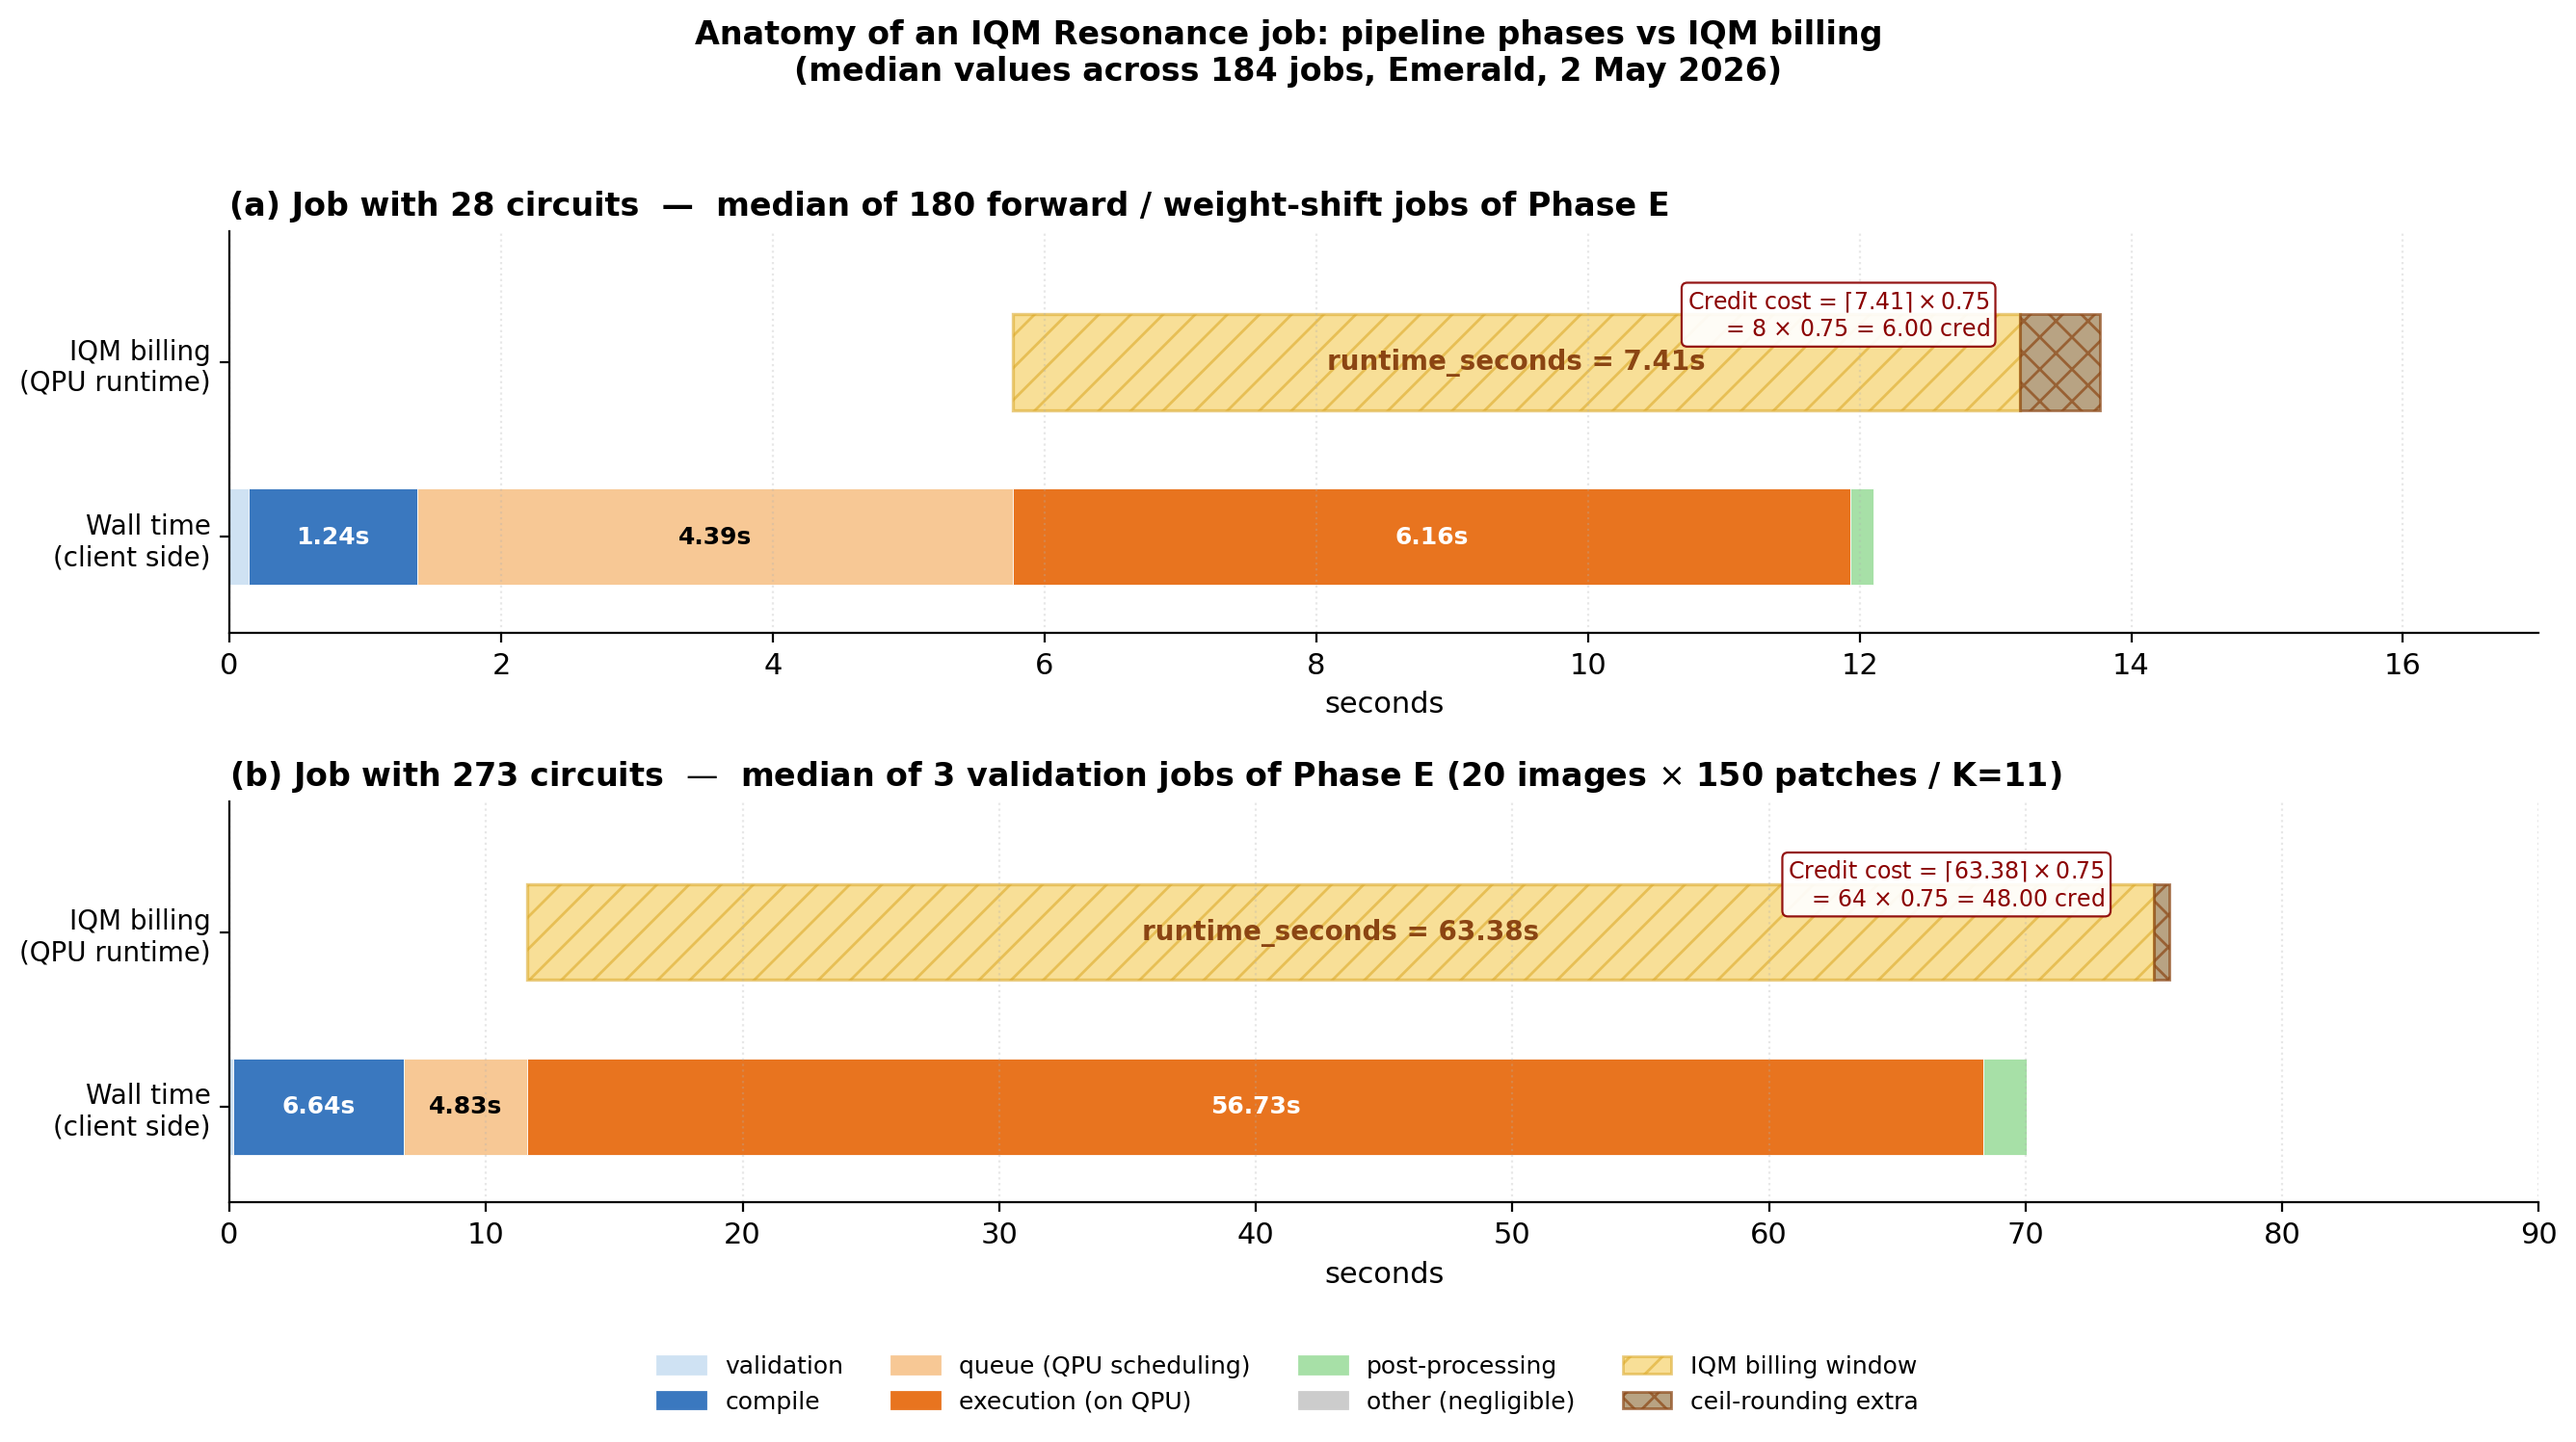
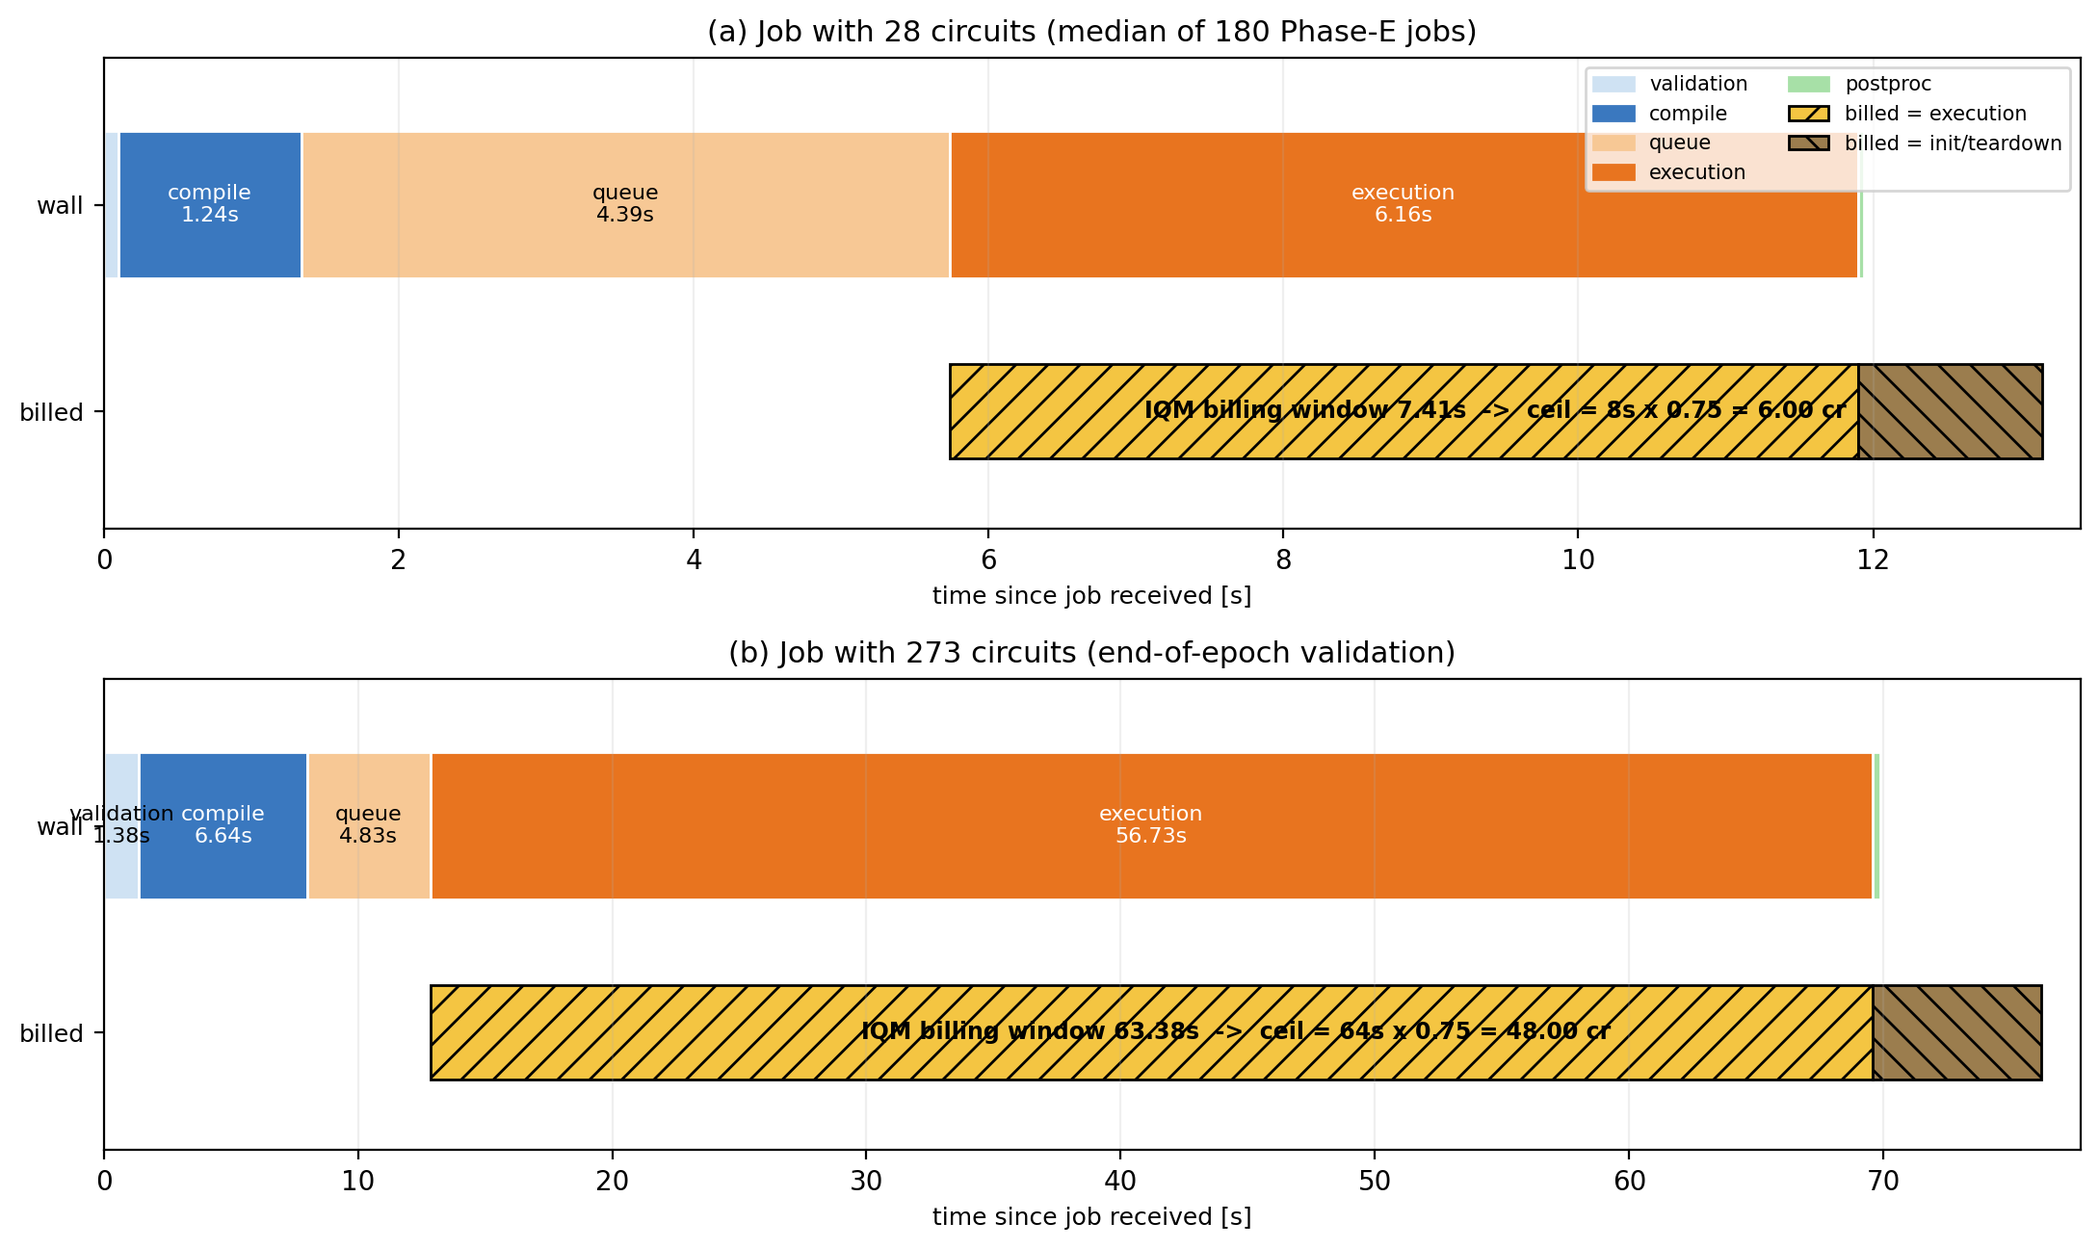
Ch.3: cost-model grounded on real IQM data; train/val split correction
Cost model (Sec. cost_model), now consistent with the qh_algorithms SSoT
(real IQM Resonance Phase E job records):
- single per-job time model Eq.(job_time_model) = (1.49+/-0.07)s + (0.225+/-0.001)s/circ * N,
  R^2=0.992 on the full 195-job set; removed the duplicate full-fit equation and
  the non-reproducible median-aggregated reconciliation.
- billing window = execution + per-job init/teardown overhead (was mislabelled
  'execute = billed'); figure caption and panel (b) corrected accordingly.
- job count unified to 195 (was 184) in the anatomy/billing discussion; queue
  overhead 4.45+/-0.59 s; billing rule verified 195/195.
- Phase D reframed as the small-N exploratory timing-estimation batch (18 credits).
- both cost-model figures regenerated from the real job data (real scatter,
  correct billed window).

Train/validation split (Sec. results-stats): corrected the internally
inconsistent '80/20 -> N_train=160' to the actual pipeline, 100 images/class
drawn from disjoint train/val directories -> N_train=N_val=200, fixed across
all R=10 seeds; credit-estimate scale updated 160 -> 200.
Build: 0 errors, 0 undefined.

diff --git a/chapters/quantum_algorithms.tex b/chapters/quantum_algorithms.tex
@@ -919,7 +919,7 @@ Emerald quantum processor. The split between a simulator-based
 pre-training phase and an on-device fine-tuning phase is forced by the
 economics of cloud-accessed superconducting QPUs. A full $R=10$ multi-seed,
 ten-epoch training campaign on Emerald at the production
-$N_{\mathrm{train}}=160$ scale of the simulator would consume on the
+$N_{\mathrm{train}}=200$ scale of the simulator would consume on the
 order of $\sim 10^{5}$ credits (Sec.~\ref{subsec:cost_model}), against
 the $2{,}000$-credit budget allocated to this campaign; the production
 runs on Emerald therefore freeze the classical trunk at its
@@ -1050,9 +1050,10 @@ an equivalent classical convolution), and the hybrid Q-CNN itself
 (Level~3, $\sim 4.64\times 10^{5}$ trainable parameters) — is trained
 from scratch over $R=10$ independent runs that differ only in the
 random seed used to initialise the weights and to shuffle the
-mini-batches; the train/validation split is held fixed across runs at
-$80/20$ on a 100-image-per-class subset of EuroSAT (Forest vs.\
-AnnualCrop), yielding $N_{\mathrm{train}}=160$ and $N_{\mathrm{val}}=200$
+mini-batches; the train/validation partition is held fixed across runs: the EuroSAT
+classes Forest and AnnualCrop are split $80/20$ into disjoint training and
+validation directories, from each of which a fixed subset of $100$ images
+per class is drawn, giving $N_{\mathrm{train}}=200$ and $N_{\mathrm{val}}=200$
 items shared across all seeds. The purely quantum reference of
 Sebastianelli et al.~\cite{Sebastianelli2021} is discussed qualitatively
 in Sec.~\ref{sec:baselines} but is not included in the across-seed
@@ -1686,7 +1687,7 @@ A submission to Emerald goes through a sequence of platform-side phases that are
 
 \begin{itemize}
 \item \emph{Validation, compile, and post-processing} (blue/light-green segments) run on the IQM platform side and are not billed. Their median wall durations are below 1.5~s for the 28-circuit job, and grow modestly with the circuit count (about 6.6~s for the 273-circuit job, dominated by per-circuit pulse-schedule generation).
-\item \emph{Queue (QPU scheduling)} is a near-constant overhead between the end of compilation and the start of execution: $4.46\pm 0.58$~s across the 184 jobs of the campaign, essentially independent of circuit count. This is the QPU-scheduler latency before the device is allocated to the job.
+\item \emph{Queue (QPU scheduling)} is a near-constant overhead between the end of compilation and the start of execution: $4.45\pm 0.59$~s across the 195 jobs of the campaign, essentially independent of circuit count. This is the QPU-scheduler latency before the device is allocated to the job.
 \item \emph{Execution on QPU} (orange) is the dominant component for any non-trivial circuit count. Its median is 6.16~s for the 28-circuit job and 56.73~s for the 273-circuit job.
 \item \emph{Billing window} (yellow hatched) starts at \texttt{execution\_start} and lasts \texttt{runtime\_seconds} (a field in the job record), which exceeds the wall-clock execution duration by a small additive overhead ($\sim 1.2$~s) attributable to QPU initialization and teardown that the platform attributes to the user but does not expose as a separate timestamp.
 \end{itemize}
@@ -1694,17 +1695,17 @@ A submission to Emerald goes through a sequence of platform-side phases that are
 \begin{figure}[h]
 \centering
 \includegraphics[width=\linewidth]{chapters/qa_figures/iqm_job_anatomy.png}
-\caption{Anatomy of an IQM Resonance job: pipeline phase decomposition (lower bars) and IQM billing window (upper bars), shown as median values across 184 jobs of the Phase~E campaign. (a)~28-circuit forward / weight-shift job; (b)~273-circuit validation job. Only the orange ``execution'' segment is billed; the queue scheduling latency ($\sim 4.4$~s, light orange) and the compile/validation overhead are not. The yellow hatched bar shows the IQM billing window, which exceeds the wall-clock execution by $\sim 1.2$~s of QPU initialization/teardown. The credit cost is computed by $\lceil\,\texttt{runtime\_seconds}\,\rceil \times 0.75$, where the brown segment marks the rounding-up to the next integer second.}
+\caption{Anatomy of an IQM Resonance job: pipeline phase decomposition (lower bars) and IQM billing window (upper bars), shown as median values across the 195 jobs of the Phase~E campaign. (a)~28-circuit forward / weight-shift job; (b)~273-circuit validation job. Only the orange ``execution'' segment is billed; the queue scheduling latency ($\sim 4.4$~s, light orange) and the compile/validation overhead are not. The yellow hatched bar shows the IQM billing window, which exceeds the wall-clock execution by $\sim 1.2$~s of QPU initialization/teardown. The credit cost is computed by $\lceil\,\texttt{runtime\_seconds}\,\rceil \times 0.75$, where the brown segment marks the rounding-up to the next integer second.}
 \label{fig:iqm_job_anatomy}
 \end{figure}
 
 \paragraph{Billing rule.}
-The IQM billing rule for the PAYG (pay-as-you-go) execution mode reduces, on the 184 jobs of our campaign, to the exact integer formula
+The IQM billing rule for the PAYG (pay-as-you-go) execution mode reduces, on the 195 jobs of our campaign, to the exact integer formula
 \begin{equation}
 \text{credit\_cost} \;=\; \lceil\,\texttt{runtime\_seconds}\,\rceil \;\times\; 0.75 \quad\text{(IQM credits)},
 \label{eq:billing_rule}
 \end{equation}
-that we verified to hold to 6 significant digits on 184 of 184 jobs. The $0.75$ figure matches the per-second rate published in the job record (\texttt{payg\_price\_per\_second}). The ceiling rounding induces an average overhead of approximately $8\%$ with respect to the continuous-rate cost: on the realised total QPU runtime of $1581$~s of the Phase~E campaign, the continuous-rate cost would be $1581 \times 0.75 = 1185.75$ credits, against an actually billed $1284$ credits, for a gap of $\approx 98$ credits (Sec.~\ref{subsec:finetune_results}). The relative gap is largest on short jobs (where the ceiling is a substantial fraction of the runtime) and decays to a fraction of a percent for long jobs (Tab.~\ref{tab:billing_rule_check}).
+that we verified to hold to 6 significant digits on 195 of 195 jobs. The $0.75$ figure matches the per-second rate published in the job record (\texttt{payg\_price\_per\_second}). The ceiling rounding induces an average overhead of approximately $8\%$ with respect to the continuous-rate cost: on the realised total QPU runtime of $1581$~s of the Phase~E campaign, the continuous-rate cost would be $1581 \times 0.75 = 1185.75$ credits, against an actually billed $1284$ credits, for a gap of $\approx 98$ credits (Sec.~\ref{subsec:finetune_results}). The relative gap is largest on short jobs (where the ceiling is a substantial fraction of the runtime) and decays to a fraction of a percent for long jobs (Tab.~\ref{tab:billing_rule_check}).
 
 \begin{table}[h]
 \centering
@@ -1722,13 +1723,13 @@ $N$ circuits & jobs & $\overline{\text{cred}}$ & $\overline{\text{runtime}_s}$ &
 \end{table}
 
 \paragraph{Per-circuit time amortization.}
-The QPU runtime per job (\texttt{runtime\_seconds}) is highly linear in the number of circuits, with negligible scatter at fixed $N$. A linear fit on all 184 jobs gives
+The QPU runtime per job (\texttt{runtime\_seconds}) is highly linear in the number of circuits, with negligible scatter at fixed $N$. A per-job linear fit on the full set of $195$ Phase~E jobs (Fig.~\ref{fig:cost_model_validation}) gives
 \begin{equation}
-\texttt{runtime\_seconds}(N) \;=\; (1.44 \pm 0.08)\;\text{s} \;+\; (0.226 \pm 0.001)\;\text{s} \cdot N,
-\qquad R^2 = 0.993 .
+\texttt{runtime\_seconds}(N) \;=\; (1.49 \pm 0.07)\;\text{s} \;+\; (0.225 \pm 0.001)\;\text{s/circ} \cdot N,
+\qquad R^2 = 0.992 .
 \label{eq:job_time_model}
 \end{equation}
-The intercept $1.44$~s is interpretable as the per-job QPU initialization+teardown overhead, while the slope $0.226$~s/circuit is the per-circuit shot loop at $N_s=500$ shots. Combining Eq.~\ref{eq:job_time_model} with the billing rule of Eq.~\ref{eq:billing_rule} provides a closed-form a-priori cost model that is exact up to the ceiling rounding.
+The intercept $1.49$~s is interpretable as the per-job QPU initialization+teardown overhead, while the slope $0.225$~s/circuit is the per-circuit shot loop at $N_s=500$ shots. Combining Eq.~\ref{eq:job_time_model} with the billing rule of Eq.~\ref{eq:billing_rule} provides a closed-form a-priori cost model that is exact up to the ceiling rounding.
 
 \paragraph{Wall-time vs.\ billed-time discrepancy.}
 The wall-clock time observed at the Python client is consistently larger than \texttt{runtime\_seconds} (Fig.~\ref{fig:iqm_job_anatomy}). For the 28-circuit job, the wall median is 12.10~s while the billing window is 7.41~s; for the 273-circuit job, the corresponding values are 70.04~s and 63.38~s. The gap is attributable to compilation, queue scheduling, and post-processing, which are not billed but contribute to the throughput observed by the user. The empirical wall-time-to-billing ratio is
@@ -1744,21 +1745,12 @@ which is what an in-flight cost model based on Python-side wall measurements wou
 \paragraph{Validation against the in-flight model.}
 \label{par:cost_model_validation}
 Figure~\ref{fig:cost_model_validation} summarizes the validation of the
-cost-model of Sec.~\ref{sec:batch-time-model} against the 183 production jobs
-of the Phase~E campaign (180 forward / weight-shift jobs at $N=28$ plus 3
-end-of-epoch validation jobs at $N=273$). A linear least-squares fit of the
-QPU runtime against the bound-circuit count $N$ yields, on the
-\emph{full} set of 195 jobs (183 production + 12 Phase~D minicheck jobs at
-$N\in\{1,5,20,28,50\}$),
-\begin{equation}
-\texttt{runtime\_seconds}(N) = (1.49\pm 0.04)\,\text{s} +
-                                (0.225\pm 0.001)\,\text{s/circ}\cdot N,
-\qquad R^2 = 0.992,
-\label{eq:job_time_model_full_fit}
-\end{equation}
-in agreement with the $N$-binned aggregates of Tab.~\ref{tab:billing_rule_check}
-(Eq.~\ref{eq:job_time_model}, $A=1.44$~s, $B=0.226$~s/circ, fit on the
-$N$-aggregated medians of the same dataset). The intercept $A\!\sim\!1.5$~s
+cost-model of Sec.~\ref{sec:batch-time-model} against the $195$ jobs of the
+Phase~E campaign: $183$ production jobs ($180$ forward / weight-shift jobs at
+$N=28$ plus $3$ end-of-epoch validation jobs at $N=273$) and $12$ small-$N$
+calibration probes at $N\in\{1,5,20,50\}$. The per-job fit of
+Eq.~\ref{eq:job_time_model} (red line in panel~(a)) reproduces the billed QPU
+runtime with $R^2=0.992$. The intercept $A\!\sim\!1.5$~s
 is the per-job QPU initialization+teardown overhead that the in-flight estimator
 of Eq.~\eqref{eq:cred_epoch} does \emph{not} model explicitly: it is small
 relative to $B\cdot N$ in the production regime ($A/(A+BN_{28})\approx 19\%$
@@ -1773,13 +1765,15 @@ small $N$ (Tab.~\ref{tab:billing_rule_check}).
 \caption{Cost-model validation on the IQM Emerald Phase~E campaign.
 \textbf{(a)} Per-job QPU runtime versus bound-circuit count $N$ for the 195
 recorded jobs; the red line is the linear fit of
-Eq.~\eqref{eq:job_time_model_full_fit}, the band is $\pm 2\sigma$ of the
+Eq.~\eqref{eq:job_time_model}, the band is $\pm 2\sigma$ of the
 residual.
 \textbf{(b)} Server-side phase decomposition (median across jobs) for the two
-production regimes $N=28$ (180 jobs) and $N=273$ (3 jobs): only the orange
-\emph{execute} segment is billed; \emph{validate}, \emph{compile},
-\emph{queue} and \emph{post-processing} contribute to the wall time observed
-by the Python client but are not charged.
+production regimes $N=28$ (180 jobs) and $N=273$ (3 jobs): the billed QPU
+window equals the \emph{execution} segment plus a per-job
+initialization/teardown overhead ($7.4$~s${=}6.2{+}1.2$ at $N=28$;
+$63.4$~s${=}56.7{+}6.7$ at $N=273$), while \emph{validate}, \emph{compile},
+\emph{queue} and \emph{post-processing} are observed by the Python client but
+not charged.
 The billing rule of Eq.~\ref{eq:billing_rule} is verified to 6 significant digits on every job of the campaign (Tab.~\ref{tab:billing_rule_check}).}
 \label{fig:cost_model_validation}
 \end{figure}
@@ -1823,7 +1817,7 @@ To insulate against an under-budget mis-estimation, the production notebook adop
 \subsubsection{Hardware characterization results}
 \label{subsec:hw_results}
 
-Before launching the fine-tuning campaign, we executed a minicheck phase (\emph{Phase~D}) on Emerald with the calibration-aware layout of Tab.~\ref{tab:initial_layout} to (i) verify that the per-block measurement statistics are consistent with the device calibration, and (ii) measure the empirical per-circuit time required by the cost model of Sec.~\ref{subsec:cost_model}. The phase consisted of 12 jobs at circuit counts $N\in\{1,5,20,28,50\}$, with the bulk of the runs concentrated on the small-$N$ end (which contributes per-job costs of order $1$--$3$ credits each) and a single longer probe at $N=50$ used to bracket the per-circuit amortization at the production scale; the total billed cost was 18 credits.
+Before launching the fine-tuning campaign, we executed a minicheck phase (\emph{Phase~D}) on Emerald with the calibration-aware layout of Tab.~\ref{tab:initial_layout} to (i) verify that the per-block measurement statistics are consistent with the device calibration, and (ii) measure the empirical per-circuit time required by the cost model of Sec.~\ref{subsec:cost_model}. The phase submitted small-$N$ exploratory probes at $N\in\{1,5,20,50\}$ to estimate the per-circuit execution time entering the cost model of Sec.~\ref{subsec:cost_model}; the timing-estimation batch run immediately before fine-tuning ($N=1,20,50$) cost 18 credits.
 
 \paragraph{Device functional sanity at session boundaries.}
 The Bell-state fidelity test (Sec.~\ref{subsec:backend_setup}) was repeated at the start of each session that used the device. Across three independent sessions over a single day, the observed Bell fidelity $P(00)+P(11)$ took values $0.989$, $0.980$ and $0.990$, consistent within shot noise with the per-qubit readout fidelity floor of the device. We take this stability as evidence that the calibration set used by Emerald did not change appreciably across the campaign, and that the fine-tuning epochs of Sec.~\ref{subsec:finetune_results} are mutually comparable.
